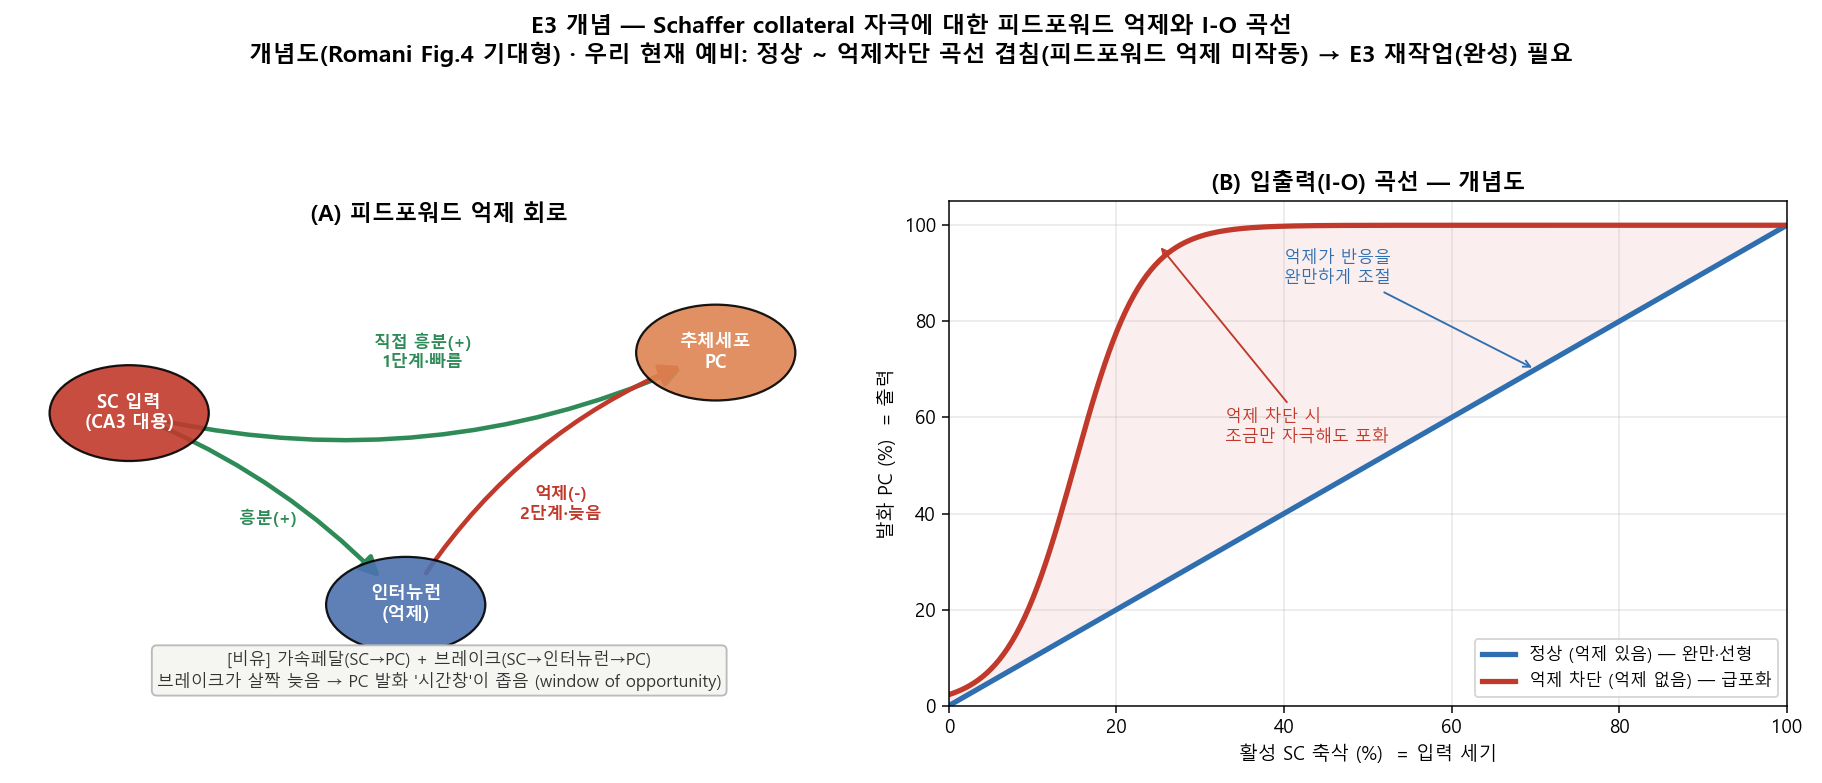
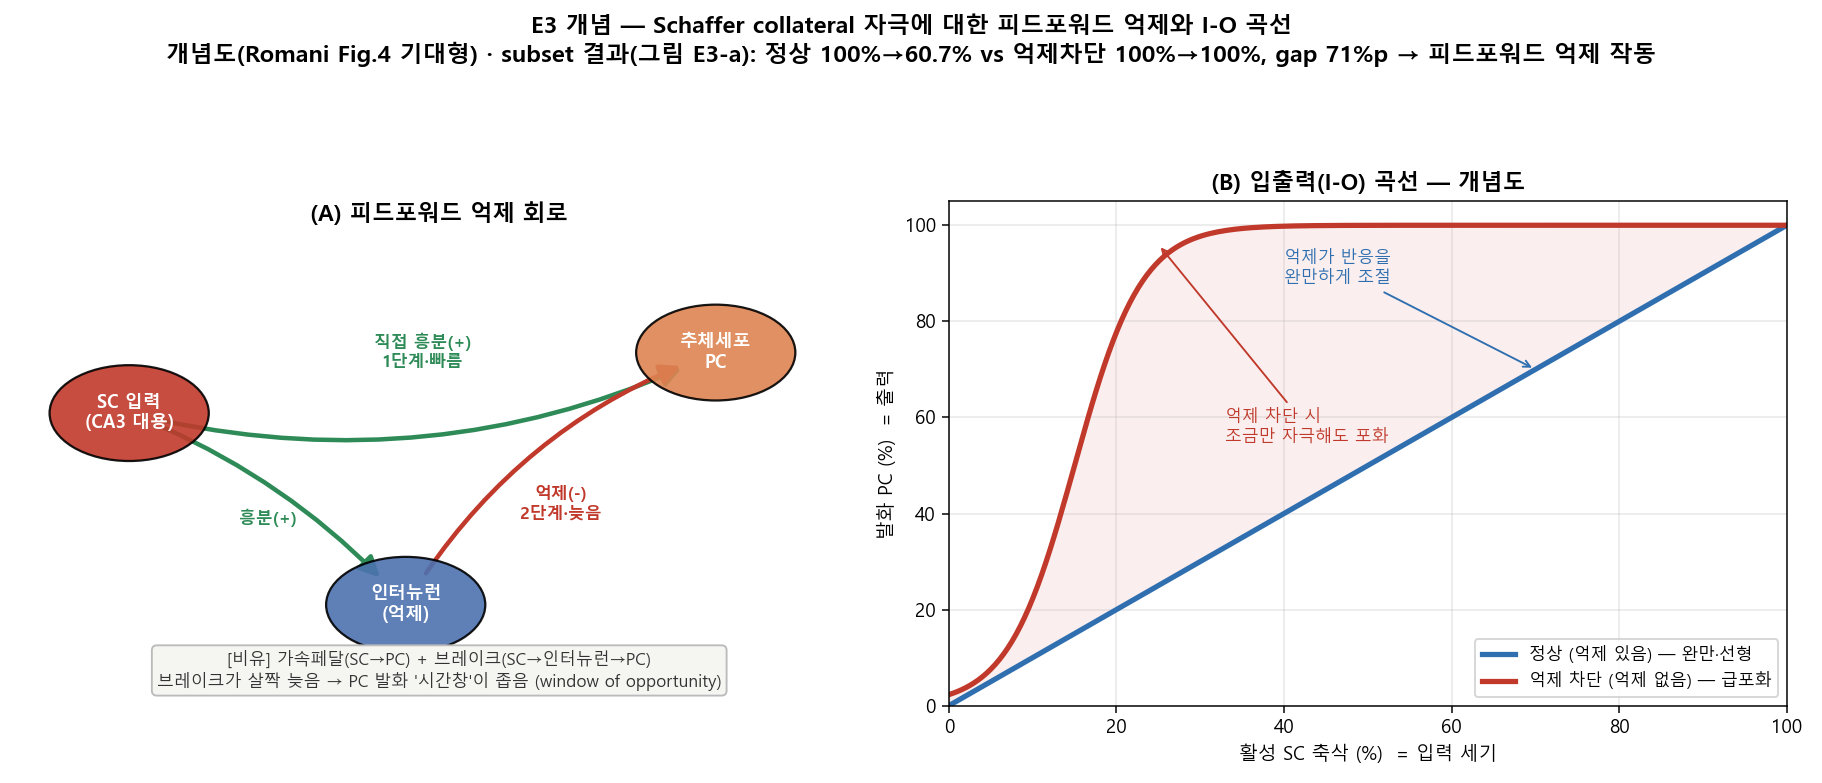
E3 완료: 피드포워드 억제 작동 확인 (subset 1200세포, gap 71%p)
- 정상(억제 ON x3): 100%->60.7% 단계적 / 억제 차단: 100%->100% 급포화
- gap 최대 71.0%p, 정상 I-O R=0.893(시그모이드형) -> Romani Fig.4 기전 재현
- 튜닝값(SC->PC 1.0/SC->INT 6.0/억제 x3) 및 subset 한계 명시
- 결과 그림 E3a_sc_io_curve.png, 개념도 캡션 갱신, 스테일 E3_sc_io_curve.png 제거

Changed region(s): [[0.0922, 0.0307, 0.9221, 0.092]]

diff --git a/like_slice_CA1/11_schaffer/e3_concept.py b/like_slice_CA1/11_schaffer/e3_concept.py
@@ -5,7 +5,7 @@
 교육용 모식도(시뮬 데이터 아님):
   (A) 회로: SC→PC 직접 흥분(1단계·빠름) + SC→인터뉴런→PC 억제(2단계·늦음) = 피드포워드 억제
   (B) I-O 곡선 개념: 정상(억제 있음)=완만·선형 vs 억제 차단(억제 없음)=급포화
-주의: 이건 Romani Fig.4 '기대형' 개념도. 우리 현재 예비결과는 정상~억제차단 곡선 겹침(피드포워드 억제 미작동)→E3 재작업(완성).
+주의: 이건 Romani Fig.4 '기대형' 개념도. 실제 subset 결과(그림 E3-a)에서 피드포워드 억제 작동 확인(gap 71%p).
 실행: python 11_schaffer/e3_concept.py
 """
 import os
@@ -74,7 +74,7 @@ def main():
     axB.set_xlim(0, 100); axB.set_ylim(0, 105)
 
     fig.suptitle("E3 개념 — Schaffer collateral 자극에 대한 피드포워드 억제와 I-O 곡선\n"
-                 "개념도(Romani Fig.4 기대형) · 우리 현재 예비: 정상 ~ 억제차단 곡선 겹침(피드포워드 억제 미작동) → E3 재작업(완성) 필요",
+                 "개념도(Romani Fig.4 기대형) · subset 결과(그림 E3-a): 정상 100%→60.7% vs 억제차단 100%→100%, gap 71%p → 피드포워드 억제 작동",
                  fontsize=12.5, fontweight="bold")
     fig.tight_layout(rect=[0, 0, 1, 0.90])
     out = os.path.join(FIG, "E3_concept.png")

diff --git a/like_slice_CA1/PLAN.md b/like_slice_CA1/PLAN.md
@@ -78,7 +78,7 @@ ca1sim (h5py 3.16 · scipy 1.15.3 · numpy 2.2.6 설치됨). 추가: `pip instal
 |---|---|---|
 | E1 | Baseline 발화율·구동 검증 | ✅ 완료 |
 | E2 | Schaffer collateral 경로 | 🔄 E2-a·E2-b ✅ / E2-c ⬜ |
-| E3 | SC 자극 I-O + 억제 차단 | 🔄 진행중·미완(피드포워드 억제 미작동) |
+| E3 | SC 자극 I-O + 억제 차단 | ✅ subset 완료(피드포워드 억제 작동, gap 71%p) |
 | E4 | 세포외 LFP/fEPSP 계산기 | ⬜ 예정 |
 | E5 | theta 변조 SC 입력 + PAC | ⬜ 예정 |
 | E6 | 내측중격(MS) theta | ⬜ 예정 |
@@ -104,13 +104,13 @@ ca1sim (h5py 3.16 · scipy 1.15.3 · numpy 2.2.6 설치됨). 추가: `pip instal
 - **근거**: Romani PC당 SC ~20,878(±5,867)·INT ~12,714·CA3 267,238세포·층분포(SR67.9/SO24.7/SP7.1/SLM0.3%). fiber ~800=수렴비율 7.8% 보존. 시냅스 ~1/350 축소+전도도 보정.
 - **⚠️ 한계·주의**: SC=Ecker E2 대용(Romani 전용 SC-PC 0.85nS·τ0.4/12·NRRP12 아님, kinetics 다름). E2-a baseline 오염(진값 0.17mV)·Use=0.5로 유효 0.30nS. 전도도·fiber수=튜닝/설계값(측정 아님).
 
-### E3. SC 자극 I-O + 억제 차단 🔄 진행중·미완
+### E3. SC 자극 I-O + 억제 차단 ✅ subset 완료(피드포워드 억제 작동)
 - **목표**: SC 세기별 자극→발화 PC I-O 곡선. 정상 vs 억제차단 비교로 피드포워드 억제가 반응을 조절함을 확인(Romani Fig.4).
-- **방법·입력**: 1,200세포 subset(PC900+INT300), SC 볼리 활성비율 5–100% 스윕, 정상(억제 ON)/억제 차단(OFF). 실행 조합: SC→PC 0.5nS·SC→INT 6.0nS·억제 ×3. `sc_io_curve.py`.
+- **방법·입력**: 1,200세포 subset(PC900+INT300), SC 볼리 활성비율 50/75/100% 스윕, 정상(억제 ON)/억제 차단(OFF). 실행 조합: SC→PC 1.0nS·SC→INT 6.0nS·억제 ×3. `sc_io_curve.py`.
 - **검증지표**: 정상 I-O 선형성 R; **피드포워드 억제 gap(억제차단−정상) ≥10%p**.
-- **결과·상태**: 예비(108세포) I-O 선형 R=0.962이나 **정상 ≈ 억제차단(피드포워드 억제 미작동)** → 미완. 1,200세포·조정 파라미터로 재실행 중. 개념도(그림 E3).
+- **결과·상태**: ✅ 정상(억제 ON ×3): 50%→3.2%·75%→24.0%·100%→60.7%(단계적). 억제 차단(OFF): 50%→41.6%·75%→95.0%·100%→100%(급포화). **gap 최대 71.0%p → 피드포워드 억제 작동**(Romani Fig.4 기전 재현). 정상 I-O R=0.893(시그모이드형). 그림 E3-a. 개념도 그림 E3.
 - **근거**: Romani Fig.4(정상 선형 R=0.992·억제차단 포화); Pouille & Scanziani "window of opportunity".
-- **⚠️ 한계·주의**: 예비 그림=108세포. SC→PC↓/SC→INT↑/억제↑=튜닝값. 전 슬라이스 I-O 스윕은 ~56h(비현실적)→subset.
+- **⚠️ 한계·주의**: 1,200세포 subset(전 슬라이스 아님, I-O 스윕 ~56h 비현실적). SC→PC 1.0·SC→INT 6.0·억제 ×3 = **튜닝값(측정 아님)**. 정상 R=0.893은 시그모이드형으로 Romani 0.992보다 덜 선형(자극점 3개·조정 여지).
 
 ### E4. 세포외 LFP/fEPSP 계산기 ⬜ 예정 (E2-c·E3 완성 후)
 - **목표**: 막전류→가상 MEA 전극전위, SC 자극에 SR층 음성 fEPSP(sink) 재현.